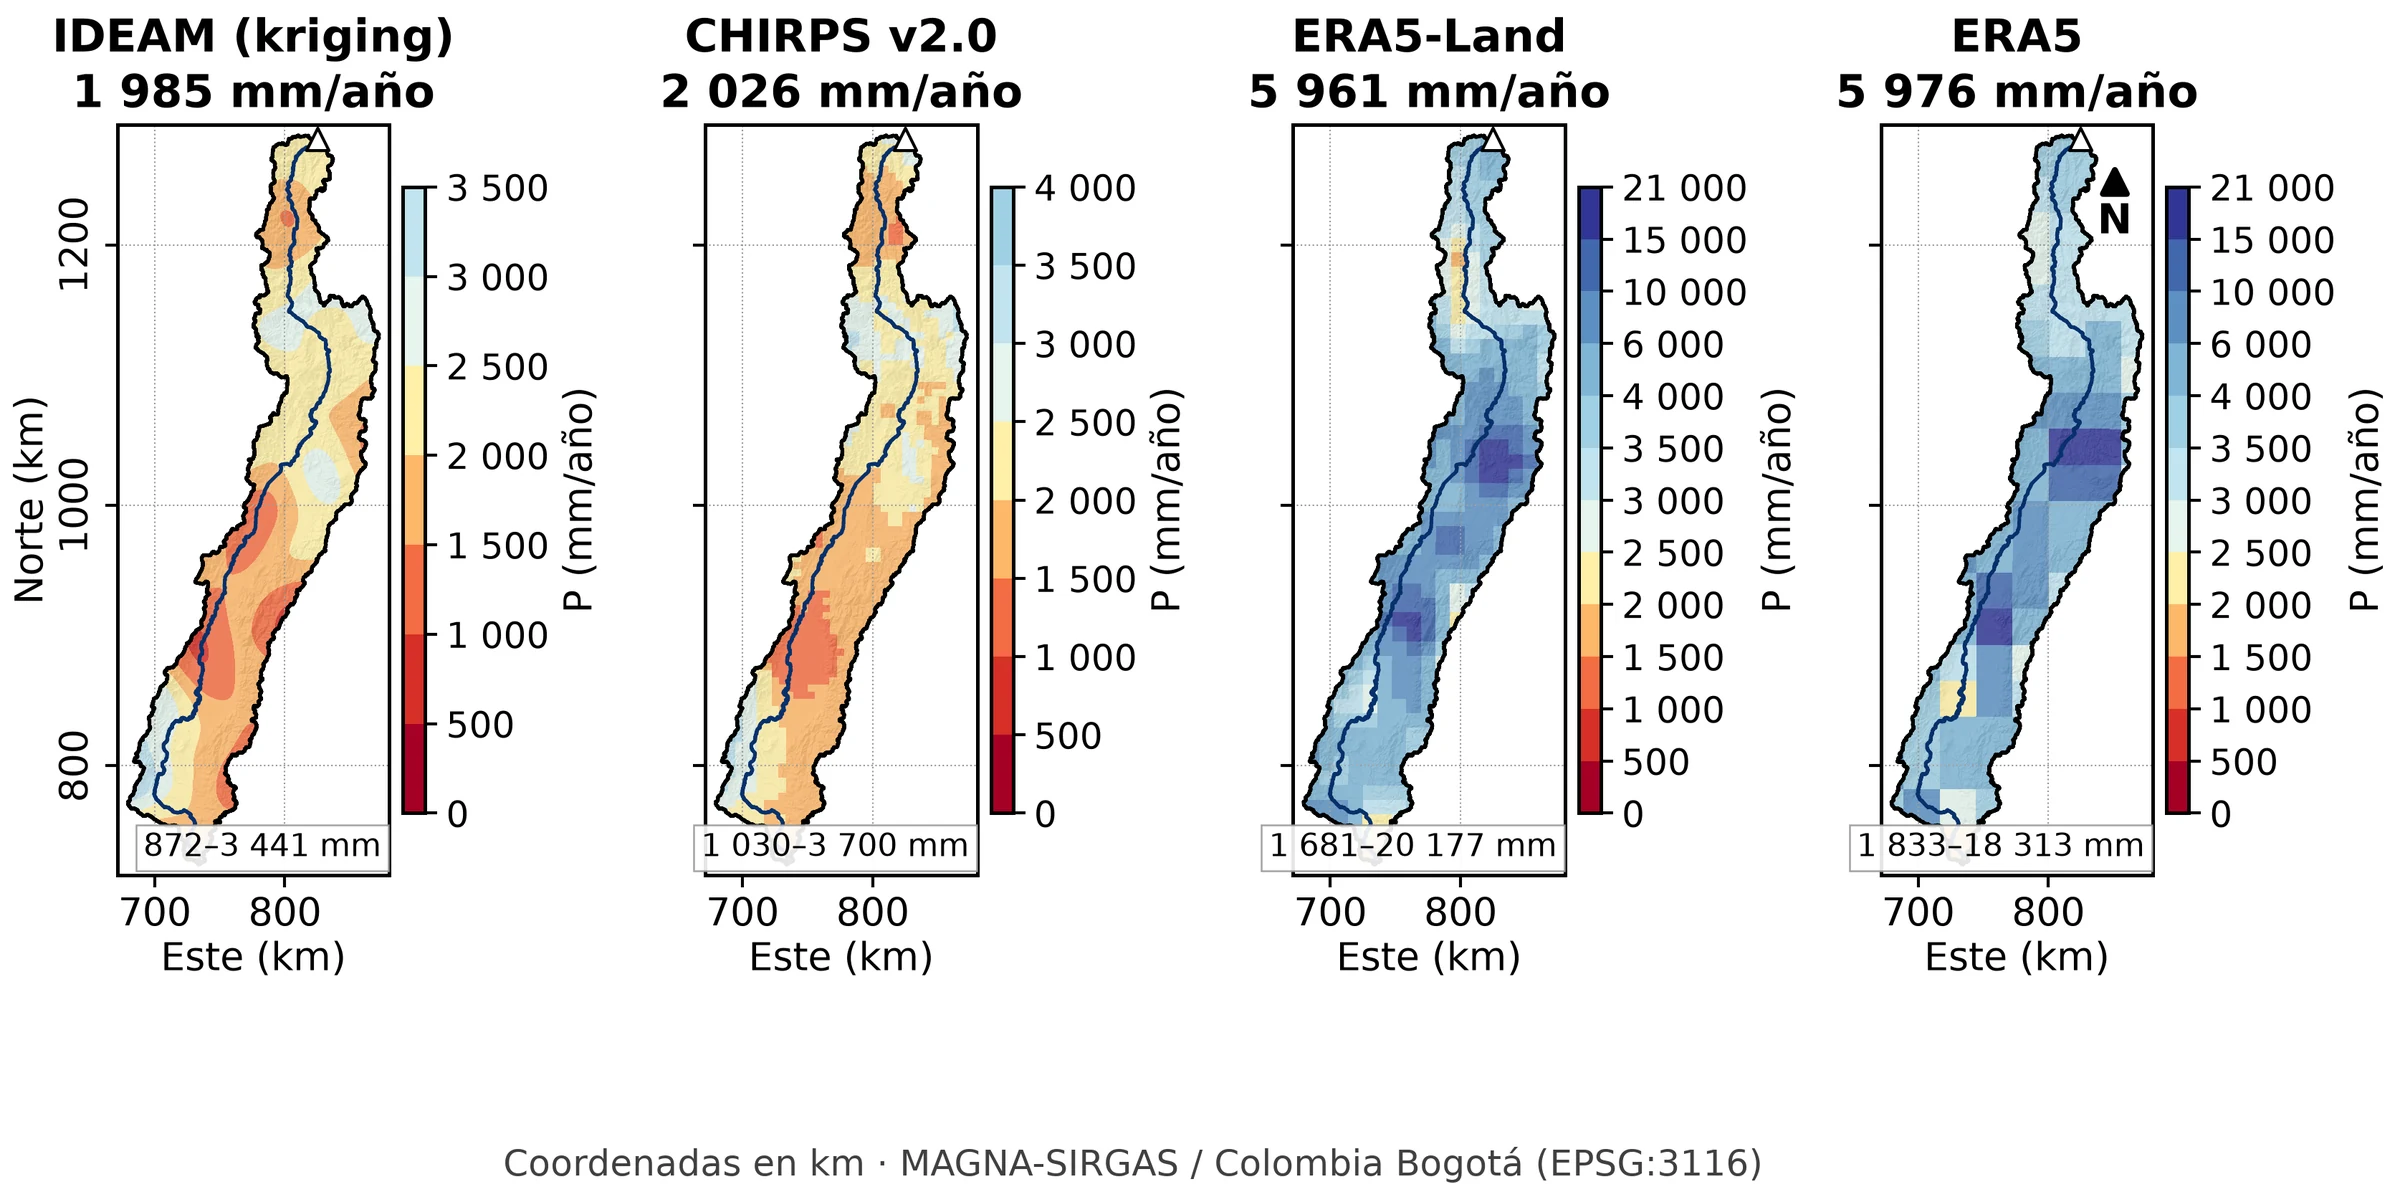
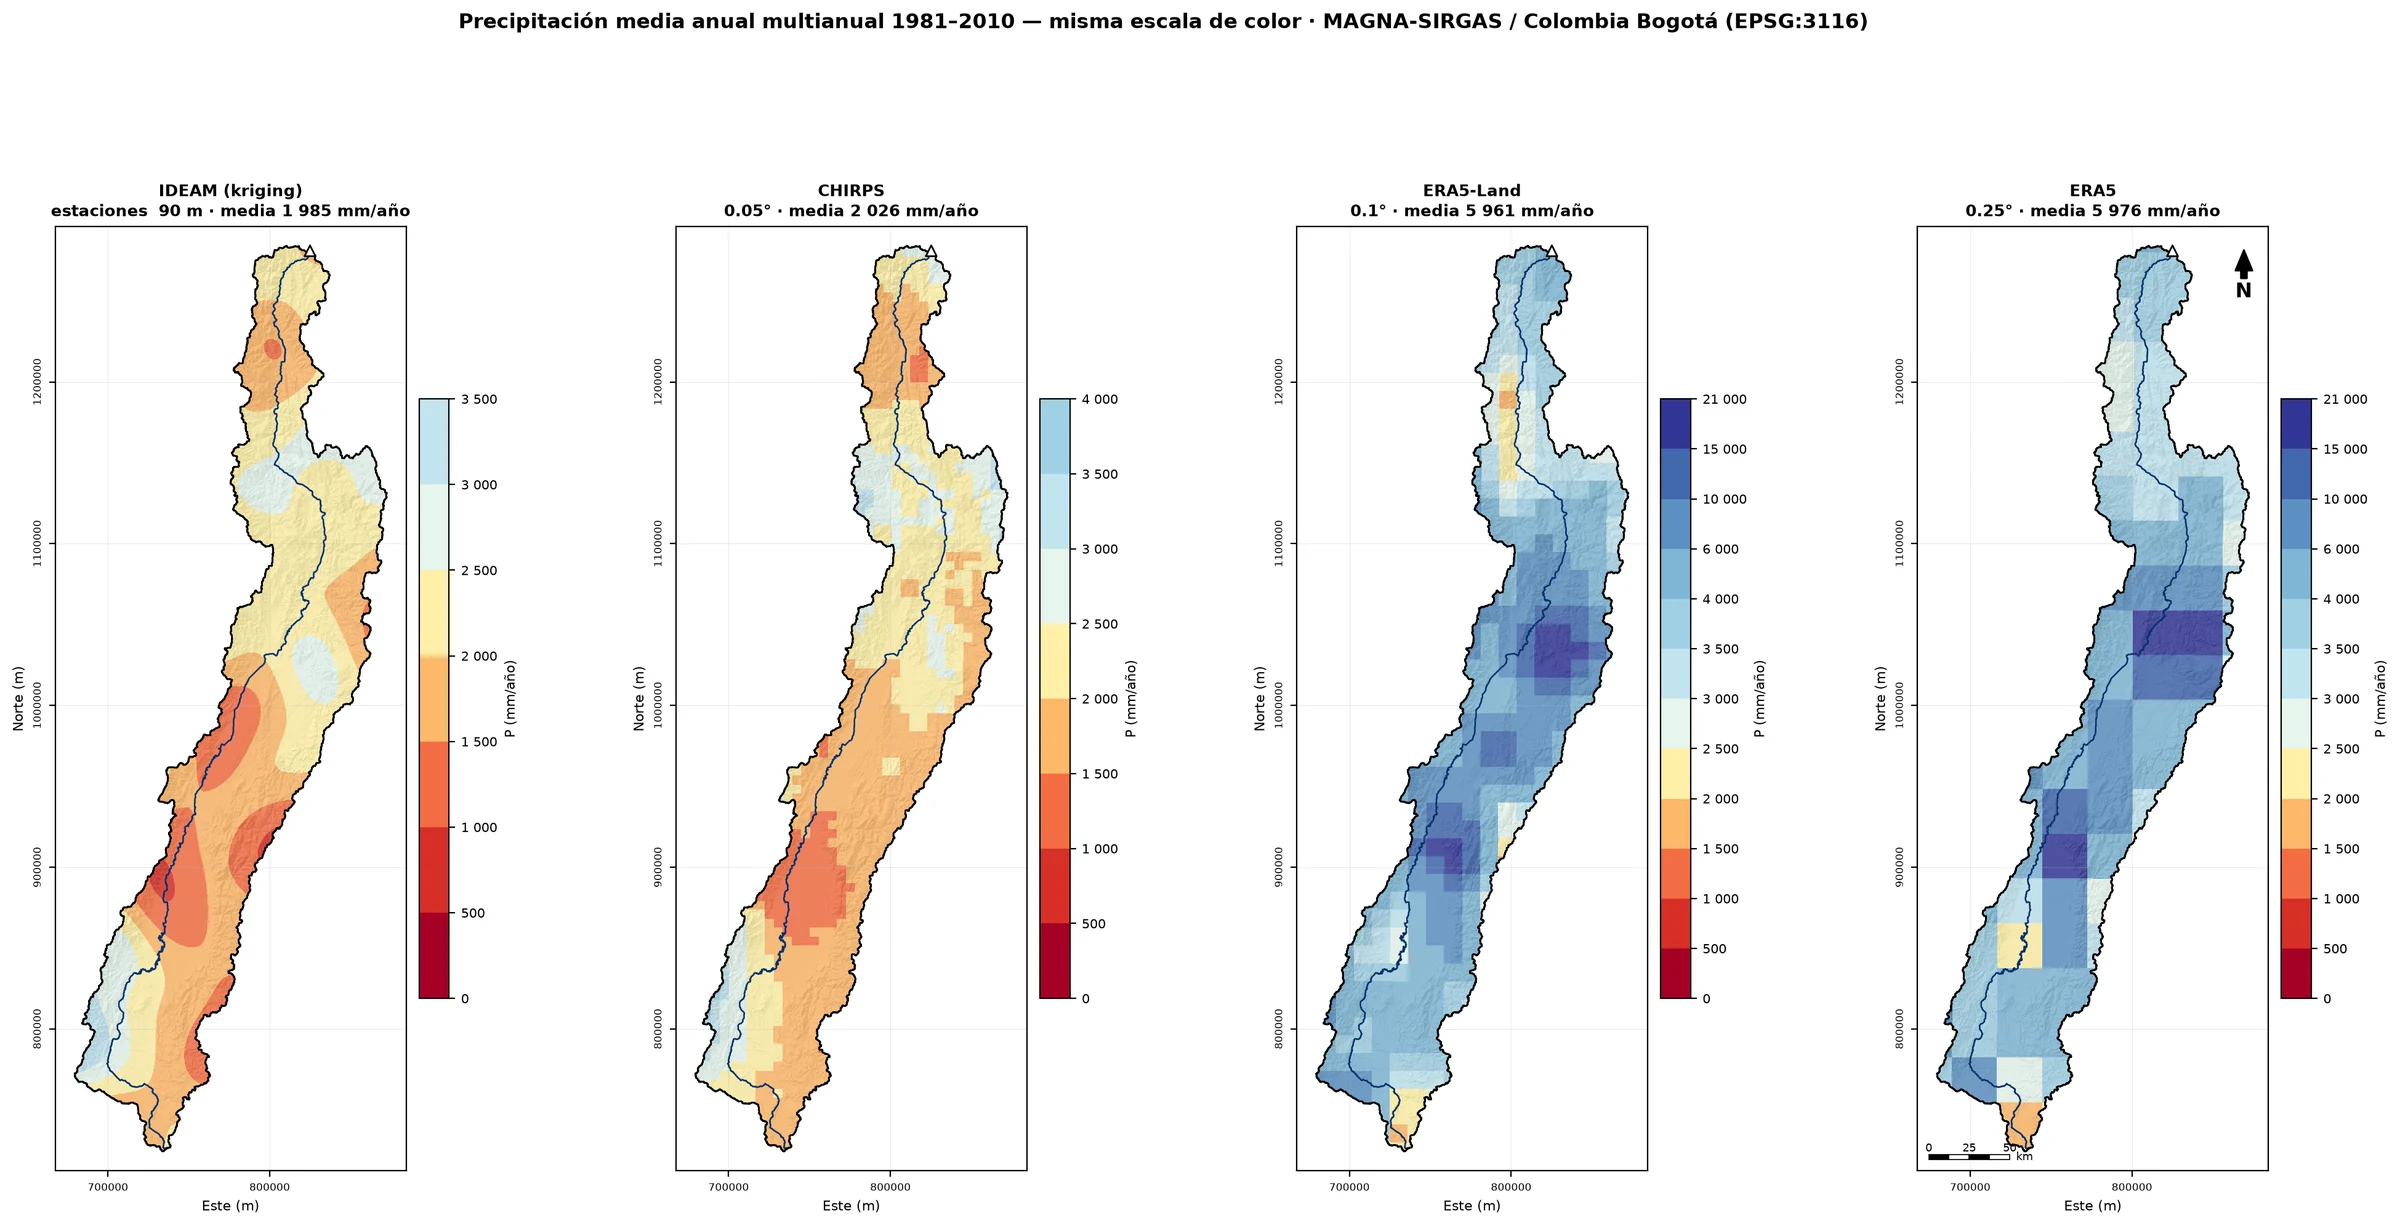
Página: sólo figuras originales (panel de productos y mapeo de cuantiles con el estilo de la página)

diff --git a/index.html b/index.html
@@ -245,7 +245,7 @@ de CHIRPS para 1980.</p>
 (≈ 5 900 mm) la triplican. ERA5-Land y ERA5 dan casi lo mismo porque la precipitación de ERA5-Land
 es la de ERA5 llevada a una grilla más fina. La media cambia menos de 3 % entre periodos, así que la elección del periodo pesa poco
 frente a la elección del producto.</p>
-</div></div><div class='plot serie' id='s_prod'></div><div class='pie'><p><b>Precipitación anual promedio de la cuenca, 1981–2025.</b> La línea punteada es la media IDEAM 1981–2010 y la franja marca el periodo seleccionado. CHIRPS reproduce los años extremos que muestran los caudales del punto 8 (1991–1992 y 2015 secos; 1999, 2008, 2011 y 2022 húmedos). ERA5 y ERA5-Land no: sus años más secos son 2018–2019 y los más húmedos 1988 y 1998. La correlación de la lluvia anual entre CHIRPS y los reanálisis es de solo 0.4 a 0.6.</p></div></section><section role="tabpanel" id="p11" aria-labelledby="t-p11" hidden><h2>11. Mapas de precipitación por producto</h2><div class='figs c1'><figure class='fig'><button type='button' class='zoom' data-src='img/p11_panel.webp?v=e26edc51' aria-label='Ampliar: Precipitación media anual multianual 1981–2010'><img src='img/p11_panel.webp?v=e26edc51' width='2400' height='1197' loading='lazy' alt='Precipitación media anual multianual 1981–2010'></button><figcaption><b>Precipitación media anual multianual 1981–2010.</b> IDEAM (kriging, punto 3) como referencia y los tres productos en su resolución original, con la misma escala de color.</figcaption></figure></div><div class='cols'>
+</div></div><div class='plot serie' id='s_prod'></div><div class='pie'><p><b>Precipitación anual promedio de la cuenca, 1981–2025.</b> La línea punteada es la media IDEAM 1981–2010 y la franja marca el periodo seleccionado. CHIRPS reproduce los años extremos que muestran los caudales del punto 8 (1991–1992 y 2015 secos; 1999, 2008, 2011 y 2022 húmedos). ERA5 y ERA5-Land no: sus años más secos son 2018–2019 y los más húmedos 1988 y 1998. La correlación de la lluvia anual entre CHIRPS y los reanálisis es de solo 0.4 a 0.6.</p></div></section><section role="tabpanel" id="p11" aria-labelledby="t-p11" hidden><h2>11. Mapas de precipitación por producto</h2><div class='figs c1'><figure class='fig'><button type='button' class='zoom' data-src='img/p11_panel.webp?v=dd84f3e4' aria-label='Ampliar: Precipitación media anual multianual 1981–2010'><img src='img/p11_panel.webp?v=dd84f3e4' width='2400' height='1226' loading='lazy' alt='Precipitación media anual multianual 1981–2010'></button><figcaption><b>Precipitación media anual multianual 1981–2010.</b> IDEAM (kriging, punto 3) como referencia y los tres productos en su resolución original, con la misma escala de color.</figcaption></figure></div><div class='cols'>
 <p class="lead">Precipitación media de la cuenca 1981–2010: IDEAM 1 985 mm, CHIRPS
 <b>2 026 mm</b>, ERA5-Land <b>5 961 mm</b> y ERA5
 <b>5 976 mm</b>.</p>
@@ -312,7 +312,7 @@ ser la versión publicada y porque cierra el balance con los caudales observados
 </div></div>
 <figure class='fig'><button type='button' class='zoom' data-src='img/p12_chirps_v2.webp?v=79727711' aria-label='Ampliar: CHIRPS v3.0 frente a v2.0'><img src='img/p12_chirps_v2.webp?v=79727711' width='2200' height='1708' loading='lazy' alt='CHIRPS v3.0 frente a v2.0'></button><figcaption><b>CHIRPS v3.0 frente a v2.0.</b> Precipitación media anual 1981–2010 de cada versión en su resolución original y diferencia relativa entre ellas.</figcaption></figure>
 <h3>Corrección del sesgo de ERA5 y ERA5-Land por mapeo de cuantiles (análisis adicional)</h3>
-<figure class='fig'><button type='button' class='zoom' data-src='img/p12_qm.webp?v=665ae5cc' aria-label='Ampliar: Precipitación y escorrentía de los reanálisis antes y después de corregir el sesgo'><img src='img/p12_qm.webp?v=665ae5cc' width='2200' height='1920' loading='lazy' alt='Precipitación y escorrentía de los reanálisis antes y después de corregir el sesgo'></button><figcaption><b>Precipitación y escorrentía de los reanálisis antes y después de corregir el sesgo.</b> Fila superior: P media anual 1981–2010; fila inferior: R = P − ETR con la ETP de Hargreaves y Budyko celda a celda. Mismas escalas de color por variable que el resto de la página.</figcaption></figure>
+<figure class='fig'><button type='button' class='zoom' data-src='img/p12_qm.webp?v=fc97ea20' aria-label='Ampliar: Precipitación y escorrentía de los reanálisis antes y después de corregir el sesgo'><img src='img/p12_qm.webp?v=fc97ea20' width='2200' height='2127' loading='lazy' alt='Precipitación y escorrentía de los reanálisis antes y después de corregir el sesgo'></button><figcaption><b>Precipitación y escorrentía de los reanálisis antes y después de corregir el sesgo.</b> Fila superior: P media anual 1981–2010; fila inferior: R = P − ETR con la ETP de Hargreaves y Budyko celda a celda. Mismas escalas de color por variable que el resto de la página.</figcaption></figure>
 <div class="dos"><div>
 <h3>Metodología</h3>
 <p>Mapeo de cuantiles empírico, celda a celda y por mes calendario: cada valor mensual del reanálisis se reemplaza por el valor de la

diff --git a/codigo/31_figura_qm_pagina.py b/codigo/31_figura_qm_pagina.py
@@ -1,0 +1,80 @@
+"""
+Figura «antes y después» del mapeo de cuantiles para la página web, con el mismo estilo de las figuras originales de la página
+(21_figuras_complementarias.py, R_por_producto): precipitación (fila superior) y escorrentía R = P − ETR (fila inferior) de ERA5 y
+ERA5-Land sin corregir y corregidos. Escalas de color por variable de escalas.py.
+
+Salida: resultados/17_quantile_mapping/QM_P_R_pagina.png
+"""
+import sys
+from pathlib import Path
+
+import geopandas as gpd
+import matplotlib
+
+matplotlib.use("Agg")
+import matplotlib.pyplot as plt  # noqa: E402
+import numpy as np  # noqa: E402
+import rasterio  # noqa: E402
+
+sys.path.insert(0, str(Path(__file__).parent))
+import escalas as E  # noqa: E402
+
+RES = Path(__file__).resolve().parents[1] / "resultados"
+DEL = RES / "01_delimitacion"
+QMD = RES / "17_quantile_mapping"
+
+
+def leer(p):
+    with rasterio.open(p) as s:
+        a = s.read(1).astype("float64"); a[a == s.nodata] = np.nan
+        return a, s.transform
+
+
+def budyko(p, etp):
+    f = etp / p
+    return p * np.sqrt(f * np.tanh(1 / f) * (1 - np.exp(-f)))
+
+
+Z, aff = leer(DEL / "dem_cuenca_90m_3116.tif")
+mask = np.isfinite(Z)
+ext = (aff.c, aff.c + aff.a * Z.shape[1], aff.f + aff.e * Z.shape[0], aff.f)
+cuenca = gpd.read_file(DEL / "cuenca_cauca_hidroituango.gpkg", layer="cuenca")
+rio = gpd.read_file(DEL / "cuenca_cauca_hidroituango.gpkg", layer="rio_principal")
+minx, miny, maxx, maxy = cuenca.total_bounds
+ETP = leer(RES / "08_etp_etr" / "ETP_anual_hargreaves_90m_3116.tif")[0]
+
+
+def marco(ax, titulo, fs=10):
+    rio.plot(ax=ax, color="#08306b", lw=0.8); cuenca.boundary.plot(ax=ax, color="black", lw=1)
+    ax.set_xlim(minx - 10000, maxx + 10000); ax.set_ylim(miny - 10000, maxy + 10000); ax.set_aspect("equal")
+    ax.ticklabel_format(style="plain"); ax.set_xticks([700000, 800000]); ax.tick_params(labelsize=6)
+    ax.set_title(titulo, fontsize=fs, fontweight="bold")
+    ax.set_xlabel("Este (m)", fontsize=7); ax.set_ylabel("Norte (m)", fontsize=7)
+    plt.setp(ax.get_yticklabels(), rotation=90, va="center"); ax.grid(color="0.7", lw=0.3, ls=":")
+
+
+def norte(ax):
+    ax.annotate("N", xy=(0.9, 0.975), xytext=(0.9, 0.92), xycoords="axes fraction", ha="center", fontsize=11, fontweight="bold",
+                arrowprops=dict(facecolor="black", width=3, headwidth=9))
+
+
+COLS = [("ERA5", "sin corregir", "P_ERA5_sin_corregir_90m_3116.tif"),
+        ("ERA5", "mapeo de cuantiles", "P_ERA5_con_mapeo_de_cuantiles_90m_3116.tif"),
+        ("ERA5-Land", "sin corregir", "P_ERA5_Land_sin_corregir_90m_3116.tif"),
+        ("ERA5-Land", "mapeo de cuantiles", "P_ERA5_Land_con_mapeo_de_cuantiles_90m_3116.tif")]
+fig, axs = plt.subplots(2, 4, figsize=(22, 21), gridspec_kw=dict(wspace=0.45, hspace=0.12))
+for j, (prod, estado, f) in enumerate(COLS):
+    p = np.where(mask, leer(QMD / f)[0], np.nan)          # sólo la cuenca
+    r = p - budyko(p, ETP)
+    for i, (a, esc, nom, et) in enumerate([(p, E.P, "P", "P (mm/año)"), (r, E.R, "R", "R = P − ETR (mm/año)")]):
+        ax = axs[i, j]
+        im = ax.imshow(a, cmap=esc["cmap"], norm=esc["norm"], extent=ext, interpolation="nearest")
+        media = np.nanmean(a[mask])
+        marco(ax, f"{prod} · {estado}\n{nom} media {media:,.0f} mm/año".replace(",", " "), 9.5)
+        cb = E.barra(fig, im, esc, a[mask], ax=ax, shrink=0.55, pad=0.03)
+        cb.set_label(et, fontsize=8)
+norte(axs[0, -1])
+fig.suptitle("Precipitación (arriba) y escorrentía de largo plazo (abajo) de ERA5 y ERA5-Land antes y después del mapeo de cuantiles "
+             "(1981–2010) · EPSG:3116", fontsize=12, fontweight="bold", y=0.92)
+fig.savefig(QMD / "QM_P_R_pagina.png", dpi=180, bbox_inches="tight"); plt.close(fig)
+print("ok QM_P_R_pagina.png")

diff --git a/codigo/13_informe_html.py b/codigo/13_informe_html.py
@@ -522,7 +522,7 @@ t11 = r11[["P media cuenca (mm/año)", "mínimo (mm/año)", "máximo (mm/año)",
 t11.columns = ["P media (mm/año)", "Mínimo (mm/año)", "Máximo (mm/año)", "Diferencia con IDEAM (%)", "Correlación espacial con IDEAM"]
 t11 = t11.rename(index={"CHIRPS": "CHIRPS v2.0"}); t11.index.name = "1981–2010"
 S["p11"] = ("11. Mapas de precipitación por producto", abajo(
-    figura("informe_figs/panel_P_productos.png", "p11_panel", "Precipitación media anual multianual 1981–2010",
+    figura("11_mapas_productos/panel_P_productos.png", "p11_panel", "Precipitación media anual multianual 1981–2010",
            "IDEAM (kriging, punto 3) como referencia y los tres productos en su resolución original, con la misma escala de color.", 2400),
     f"""
 <p class="lead">Precipitación media de la cuenca 1981–2010: IDEAM {fmt(r11.loc['IDEAM (kriging)', 'P media cuenca (mm/año)'])} mm, CHIRPS
@@ -664,7 +664,7 @@ ser la versión publicada y porque cierra el balance con los caudales observados
 
 # ----------------------------------------------------------------------------- corrección del sesgo de ERA5 (28 y 29)
 QMD = RES / "17_quantile_mapping"
-if (QMD / "metricas_qm.csv").exists() and (RES / "informe_figs" / "panel_QM_P_R.png").exists():
+if (QMD / "metricas_qm.csv").exists() and (QMD / "QM_P_R_pagina.png").exists():
     _bq = pd.read_csv(QMD / "balance_qm.csv", dtype={"codigo": str})
     _mq = pd.read_csv(QMD / "metricas_qm.csv")
     _cie = _bq[_bq.codigo == "HIDRO"].set_index("campo")
@@ -682,7 +682,7 @@ if (QMD / "metricas_qm.csv").exists() and (RES / "informe_figs" / "panel_QM_P_R.
     _val = _mq[_mq.prueba.str.startswith("validación")].set_index("producto")
     S["p12"] = (S["p12"][0], S["p12"][1] + f"""
 <h3>Corrección del sesgo de ERA5 y ERA5-Land por mapeo de cuantiles (análisis adicional)</h3>
-{figura("informe_figs/panel_QM_P_R.png", "p12_qm", "Precipitación y escorrentía de los reanálisis antes y después de corregir el sesgo",
+{figura("17_quantile_mapping/QM_P_R_pagina.png", "p12_qm", "Precipitación y escorrentía de los reanálisis antes y después de corregir el sesgo",
         "Fila superior: P media anual 1981–2010; fila inferior: R = P − ETR con la ETP de Hargreaves y Budyko celda a celda. Mismas escalas de "
         "color por variable que el resto de la página.", 2200)}
 <div class="dos"><div>

diff --git a/codigo/_bloque_p10_p14.py b/codigo/_bloque_p10_p14.py
@@ -51,7 +51,7 @@ t11 = r11[["P media cuenca (mm/año)", "mínimo (mm/año)", "máximo (mm/año)",
 t11.columns = ["P media (mm/año)", "Mínimo (mm/año)", "Máximo (mm/año)", "Diferencia con IDEAM (%)", "Correlación espacial con IDEAM"]
 t11 = t11.rename(index={"CHIRPS": "CHIRPS v2.0"}); t11.index.name = "1981–2010"
 S["p11"] = ("11. Mapas de precipitación por producto", abajo(
-    figura("informe_figs/panel_P_productos.png", "p11_panel", "Precipitación media anual multianual 1981–2010",
+    figura("11_mapas_productos/panel_P_productos.png", "p11_panel", "Precipitación media anual multianual 1981–2010",
            "IDEAM (kriging, punto 3) como referencia y los tres productos en su resolución original, con la misma escala de color.", 2400),
     f"""
 <p class="lead">Precipitación media de la cuenca 1981–2010: IDEAM {fmt(r11.loc['IDEAM (kriging)', 'P media cuenca (mm/año)'])} mm, CHIRPS
